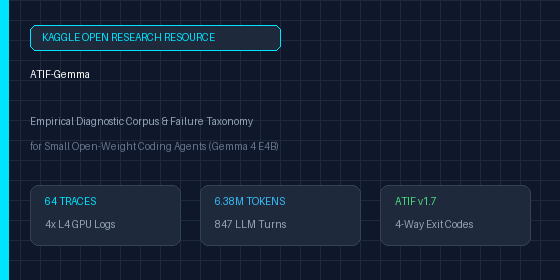
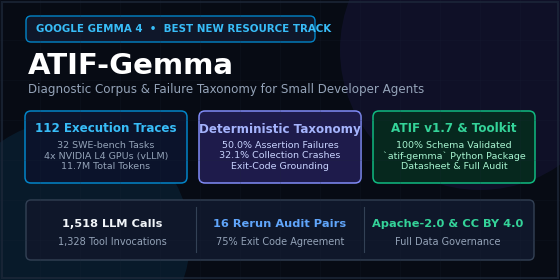
assets: update resource cards to 112 traces and high-res retina assets

Changed region(s): [[0.0, 0.0, 1.0, 1.0]]

diff --git a/scripts/generate_resource_card.py b/scripts/generate_resource_card.py
@@ -1,0 +1,112 @@
+import matplotlib.pyplot as plt
+import matplotlib.patches as patches
+from PIL import Image
+from pathlib import Path
+
+def create_resource_card(scale=1.0, filename="card_resource_560x280.png"):
+    dpi = 100 * scale
+    
+    fig, ax = plt.subplots(figsize=(5.6, 2.8), dpi=dpi)
+    fig.patch.set_facecolor('#070B14')
+    ax.set_facecolor('#070B14')
+    ax.set_xlim(0, 560)
+    ax.set_ylim(0, 280)
+    ax.axis('off')
+    plt.subplots_adjust(left=0, right=1, top=1, bottom=0)
+    
+    # Ambient glows
+    glow1 = patches.Circle((480, 230), 140, facecolor='#1E1B4B', alpha=0.35, edgecolor='none')
+    glow2 = patches.Circle((70, 40), 120, facecolor='#0C4A6E', alpha=0.25, edgecolor='none')
+    ax.add_patch(glow1)
+    ax.add_patch(glow2)
+    
+    # Technical Grid Background
+    for x in range(0, 560, 40):
+        ax.axvline(x, color='#1E293B', alpha=0.18, linewidth=0.6)
+    for y in range(0, 280, 40):
+        ax.axhline(y, color='#1E293B', alpha=0.18, linewidth=0.6)
+        
+    # Outer subtle border
+    border = patches.Rectangle((2, 2), 556, 276, fill=False, edgecolor='#1E293B', linewidth=1.5, alpha=0.7)
+    ax.add_patch(border)
+    
+    # Top Category Pill
+    pill_box = patches.FancyBboxPatch((28, 240), 285, 22, boxstyle="round,pad=2,rounding_size=5",
+                                      facecolor='#0F172A', edgecolor='#0284C7', linewidth=1.0)
+    ax.add_patch(pill_box)
+    ax.text(36, 251, "GOOGLE GEMMA 4  •  BEST NEW RESOURCE TRACK", color='#38BDF8', fontsize=7.4,
+            fontweight='bold', va='center', family='sans-serif')
+            
+    # Main Title
+    ax.text(28, 214, "ATIF-Gemma", color='#FFFFFF', fontsize=21,
+            fontweight='heavy', va='center', family='sans-serif')
+            
+    # Subtitle
+    ax.text(28, 190, "Diagnostic Corpus & Failure Taxonomy for Small Developer Agents", color='#94A3B8',
+            fontsize=8.6, fontweight='medium', va='center', family='sans-serif')
+            
+    # 3 Middle Diagnostic Pillars
+    box_y = 100
+    box_h = 66
+    box_w = 156
+    
+    # Pillar 1: Empirical Corpus
+    p1 = patches.FancyBboxPatch((28, box_y), box_w, box_h, boxstyle="round,pad=3,rounding_size=6",
+                                facecolor='#0B132B', edgecolor='#0284C7', linewidth=1.1)
+    ax.add_patch(p1)
+    ax.text(28 + box_w/2, box_y + box_h - 15, "112 Execution Traces", color='#38BDF8', fontsize=8.6,
+            fontweight='bold', ha='center', va='center', family='sans-serif')
+    ax.text(28 + box_w/2, box_y + 24, "32 SWE-bench Tasks\n4x NVIDIA L4 GPUs (vLLM)\n11.7M Total Tokens", color='#94A3B8',
+            fontsize=6.8, ha='center', va='center', family='sans-serif')
+            
+    # Pillar 2: Failure Taxonomy
+    p2 = patches.FancyBboxPatch((202, box_y), box_w, box_h, boxstyle="round,pad=3,rounding_size=6",
+                                facecolor='#1E1B4B', edgecolor='#818CF8', linewidth=1.1)
+    ax.add_patch(p2)
+    ax.text(202 + box_w/2, box_y + box_h - 15, "Deterministic Taxonomy", color='#A5B4FC', fontsize=8.6,
+            fontweight='bold', ha='center', va='center', family='sans-serif')
+    ax.text(202 + box_w/2, box_y + 24, "50.0% Assertion Failures\n32.1% Collection Crashes\nExit-Code Grounding", color='#C7D2FE',
+            fontsize=6.8, ha='center', va='center', family='sans-serif')
+            
+    # Pillar 3: Open Resource & Tooling
+    p3 = patches.FancyBboxPatch((376, box_y), box_w, box_h, boxstyle="round,pad=3,rounding_size=6",
+                                facecolor='#06281E', edgecolor='#10B981', linewidth=1.1)
+    ax.add_patch(p3)
+    ax.text(376 + box_w/2, box_y + box_h - 15, "ATIF v1.7 & Toolkit", color='#34D399', fontsize=8.6,
+            fontweight='bold', ha='center', va='center', family='sans-serif')
+    ax.text(376 + box_w/2, box_y + 24, "100% Schema Validated\n`atif-gemma` Python Package\nDatasheet & Full Audit", color='#A7F3D0',
+            fontsize=6.8, ha='center', va='center', family='sans-serif')
+            
+    # Bottom Summary Strip
+    b_strip = patches.FancyBboxPatch((28, 22), 504, 56, boxstyle="round,pad=2,rounding_size=5",
+                                     facecolor='#0F172A', edgecolor='#334155', linewidth=1.0)
+    ax.add_patch(b_strip)
+    
+    # Zone 1: LLM & Tool Calls
+    ax.text(112, 53, "1,518 LLM Calls", color='#F1F5F9', fontsize=8.2, fontweight='bold', ha='center')
+    ax.text(112, 35, "1,328 Tool Invocations", color='#94A3B8', fontsize=7.0, ha='center')
+    
+    # Separator 1
+    ax.axvline(196, ymin=0.10, ymax=0.26, color='#334155', linewidth=0.8)
+    
+    # Zone 2: Reproducibility & Concordance
+    ax.text(280, 53, "16 Rerun Audit Pairs", color='#60A5FA', fontsize=8.2, fontweight='bold', ha='center')
+    ax.text(280, 35, "75% Exit Code Agreement", color='#94A3B8', fontsize=7.0, ha='center')
+    
+    # Separator 2
+    ax.axvline(364, ymin=0.10, ymax=0.26, color='#334155', linewidth=0.8)
+    
+    # Zone 3: Governance & License
+    ax.text(448, 53, "Apache-2.0 & CC BY 4.0", color='#34D399', fontsize=8.2, fontweight='bold', ha='center')
+    ax.text(448, 35, "Full Data Governance", color='#94A3B8', fontsize=7.0, ha='center')
+    
+    out_path = Path("d:/AI Research/gemma_paper") / filename
+    plt.savefig(out_path, dpi=dpi, facecolor=fig.get_facecolor(), edgecolor='none', pad_inches=0)
+    plt.close()
+    
+    im = Image.open(out_path)
+    print(f"Generated {filename}: {im.size} (Width: {im.width}, Height: {im.height})")
+
+if __name__ == "__main__":
+    create_resource_card(1.0, "card_resource_560x280.png")
+    create_resource_card(2.0, "card_resource_1120x560.png")
